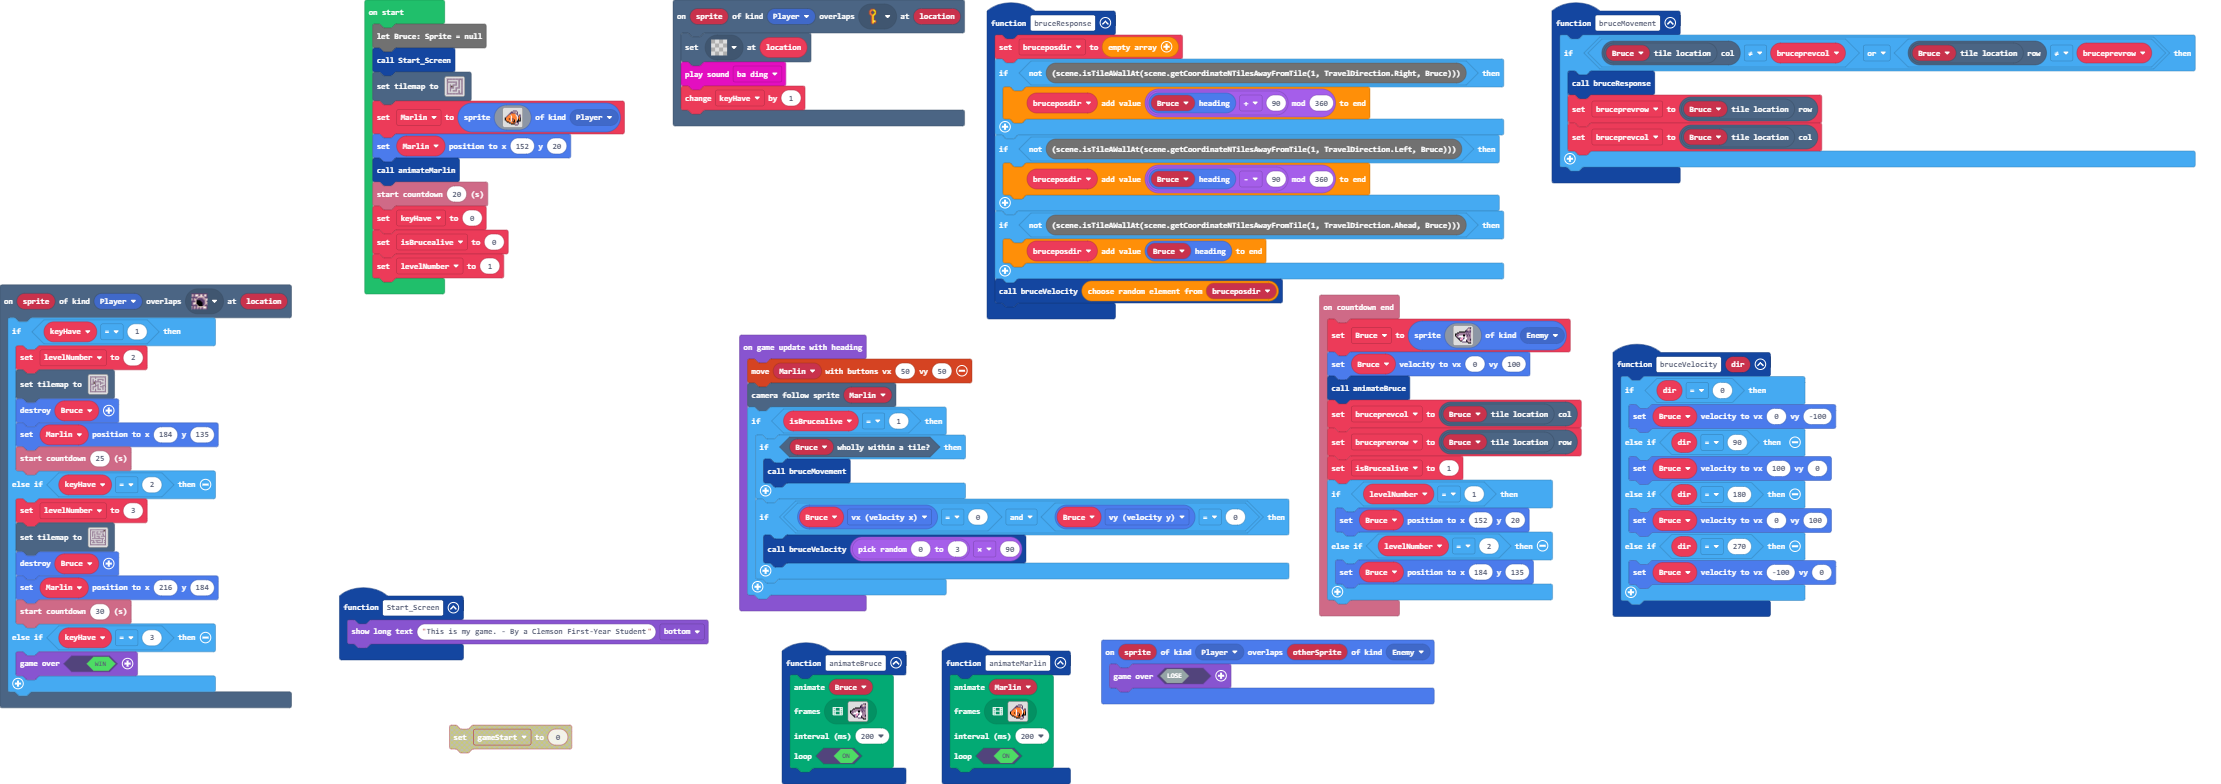
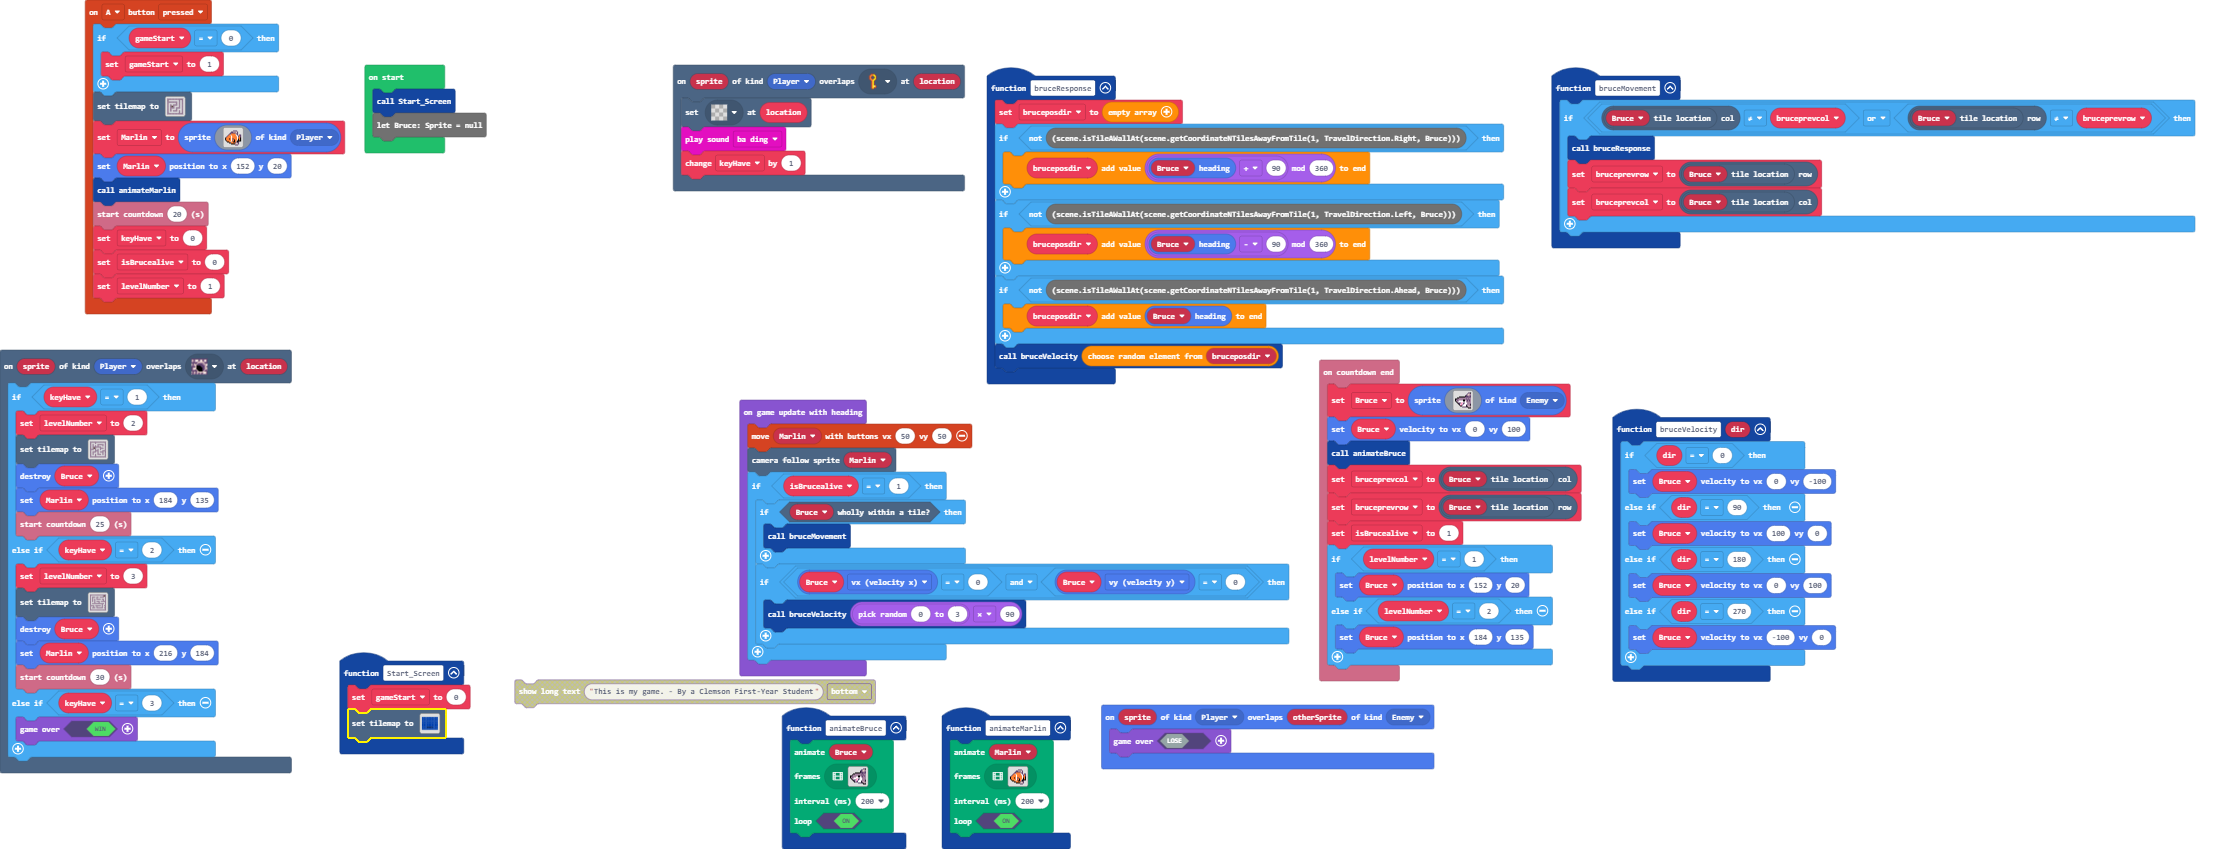
Update main.blocks, main.ts, tilemap.g.jres, tilemap.g.ts

diff --git a/main.ts b/main.ts
@@ -82,6 +82,48 @@ game.onGameUpdateWithHeading(function () {
         }
     }
 })
+controller.A.onEvent(ControllerButtonEvent.Pressed, function () {
+    if (gameStart == 0) {
+        gameStart = 1
+    }
[1 lines of base64/hex data omitted]
+        2 2 2 2 2 2 2 2 2 2 2 
+        . . . . . . . . 2 . 2 
+        2 2 2 2 2 2 2 . 2 . 2 
+        2 . . . . . 2 . 2 . 2 
+        2 . 2 . 2 2 2 . 2 . 2 
+        2 . 2 . 2 . . . 2 . 2 
+        2 . 2 2 2 . 2 2 2 . 2 
+        2 . 2 . . . 2 . . . 2 
+        2 . 2 . 2 2 2 . 2 . 2 
+        2 . . . . . . . 2 . 2 
+        2 2 2 2 2 2 2 2 2 2 2 
+        `, [myTiles.transparency16,myTiles.tile1,myTiles.tile3,myTiles.tile4,myTiles.tile6], TileScale.Sixteen))
+    Marlin = sprites.create(img`
+        . . . . . . . . . . . . . . . . 
+        . . . . . . . . c c c c . . . . 
+        . . . . . . c c d d d d c . . . 
+        . . . . . c c c c c c d c . . . 
+        . . . . c c 4 4 4 4 d c c . . . 
+        . . . c 4 d 4 4 4 4 4 1 c . c c 
+        . . c 4 4 4 1 4 4 4 4 d 1 c 4 c 
+        . c 4 4 4 4 1 4 4 4 4 4 1 c 4 c 
+        f 4 4 4 4 4 1 4 4 4 4 4 1 4 4 f 
+        f 4 4 4 f 4 1 c c 4 4 4 1 f 4 f 
+        f 4 4 4 4 4 1 4 4 f 4 4 d f 4 f 
+        . f 4 4 4 4 1 c 4 f 4 d f f f f 
+        . . f f 4 d 4 4 f f 4 c f c . . 
+        . . . . f f 4 4 4 4 c d b c . . 
+        . . . . . . f f f f d d d c . . 
+        . . . . . . . . . . c c c . . . 
+        `, SpriteKind.Player)
+    Marlin.setPosition(152, 20)
+    animateMarlin()
+    info.startCountdown(20)
+    keyHave = 0
+    isBrucealive = 0
+    levelNumber = 1
+})
 info.onCountdownEnd(function () {
     Bruce = sprites.create(img`
         . . . . . . . . . . . . . c c f 
@@ -124,7 +166,17 @@ function bruceVelocity (dir: number) {
     }
 }
 function Start_Screen () {
-    game.showLongText("This is my game. - By a Clemson First-Year Student", DialogLayout.Bottom)
+    gameStart = 0
[1 lines of base64/hex data omitted]
+        . . . . . . . . . . 
+        . . . . . . . . . . 
+        . . . . . . . . . . 
+        . . . . . . . . . . 
+        . . . . . . . . . . 
+        . . . . . . . . . . 
+        . . . . . . . . . . 
+        . . . . . . . . . . 
+        `, [myTiles.transparency16,myTiles.tile2,myTiles.tile5,myTiles.tile7,myTiles.tile8,myTiles.tile9], TileScale.Sixteen))
 }
 function animateBruce () {
     animation.runImageAnimation(
@@ -281,49 +333,13 @@ function animateMarlin () {
 sprites.onOverlap(SpriteKind.Player, SpriteKind.Enemy, function (sprite, otherSprite) {
     game.over(false)
 })
+let gameStart = 0
+let isBrucealive = 0
+let Marlin: Sprite = null
+let levelNumber = 0
 let bruceprevrow = 0
 let bruceprevcol = 0
 let bruceposdir: number[] = []
-let levelNumber = 0
-let isBrucealive = 0
 let keyHave = 0
-let Marlin: Sprite = null
-let Bruce: Sprite = null
 Start_Screen()
[1 lines of base64/hex data omitted]
-    2 2 2 2 2 2 2 2 2 2 2 
-    . . . . . . . . 2 . 2 
-    2 2 2 2 2 2 2 . 2 . 2 
-    2 . . . . . 2 . 2 . 2 
-    2 . 2 . 2 2 2 . 2 . 2 
-    2 . 2 . 2 . . . 2 . 2 
-    2 . 2 2 2 . 2 2 2 . 2 
-    2 . 2 . . . 2 . . . 2 
-    2 . 2 . 2 2 2 . 2 . 2 
-    2 . . . . . . . 2 . 2 
-    2 2 2 2 2 2 2 2 2 2 2 
-    `, [myTiles.transparency16,myTiles.tile1,myTiles.tile3,myTiles.tile4,myTiles.tile6], TileScale.Sixteen))
-Marlin = sprites.create(img`
-    . . . . . . . . . . . . . . . . 
-    . . . . . . . . c c c c . . . . 
-    . . . . . . c c d d d d c . . . 
-    . . . . . c c c c c c d c . . . 
-    . . . . c c 4 4 4 4 d c c . . . 
-    . . . c 4 d 4 4 4 4 4 1 c . c c 
-    . . c 4 4 4 1 4 4 4 4 d 1 c 4 c 
-    . c 4 4 4 4 1 4 4 4 4 4 1 c 4 c 
-    f 4 4 4 4 4 1 4 4 4 4 4 1 4 4 f 
-    f 4 4 4 f 4 1 c c 4 4 4 1 f 4 f 
-    f 4 4 4 4 4 1 4 4 f 4 4 d f 4 f 
-    . f 4 4 4 4 1 c 4 f 4 d f f f f 
-    . . f f 4 d 4 4 f f 4 c f c . . 
-    . . . . f f 4 4 4 4 c d b c . . 
-    . . . . . . f f f f d d d c . . 
-    . . . . . . . . . . c c c . . . 
-    `, SpriteKind.Player)
-Marlin.setPosition(152, 20)
-animateMarlin()
-info.startCountdown(20)
-keyHave = 0
-isBrucealive = 0
-levelNumber = 1
+let Bruce: Sprite = null

diff --git a/tilemap.g.ts b/tilemap.g.ts
@@ -10,6 +10,20 @@ namespace myTiles {
     export const tile4 = image.ofBuffer(hex``);
     //% fixedInstance jres blockIdentity=images._tile
     export const tile6 = image.ofBuffer(hex``);
+    //% fixedInstance jres blockIdentity=images._tile
+    export const tile2 = image.ofBuffer(hex``);
+    //% fixedInstance jres blockIdentity=images._tile
+    export const tile5 = image.ofBuffer(hex``);
+    //% fixedInstance jres blockIdentity=images._tile
+    export const tile7 = image.ofBuffer(hex``);
+    //% fixedInstance jres blockIdentity=images._tile
+    export const tile8 = image.ofBuffer(hex``);
+    //% fixedInstance jres blockIdentity=images._tile
+    export const tile9 = image.ofBuffer(hex``);
+    //% fixedInstance jres blockIdentity=images._tile
+    export const tile10 = image.ofBuffer(hex``);
+    //% fixedInstance jres blockIdentity=images._tile
+    export const tile11 = image.ofBuffer(hex``);
 
 }
 // Auto-generated code. Do not edit.
